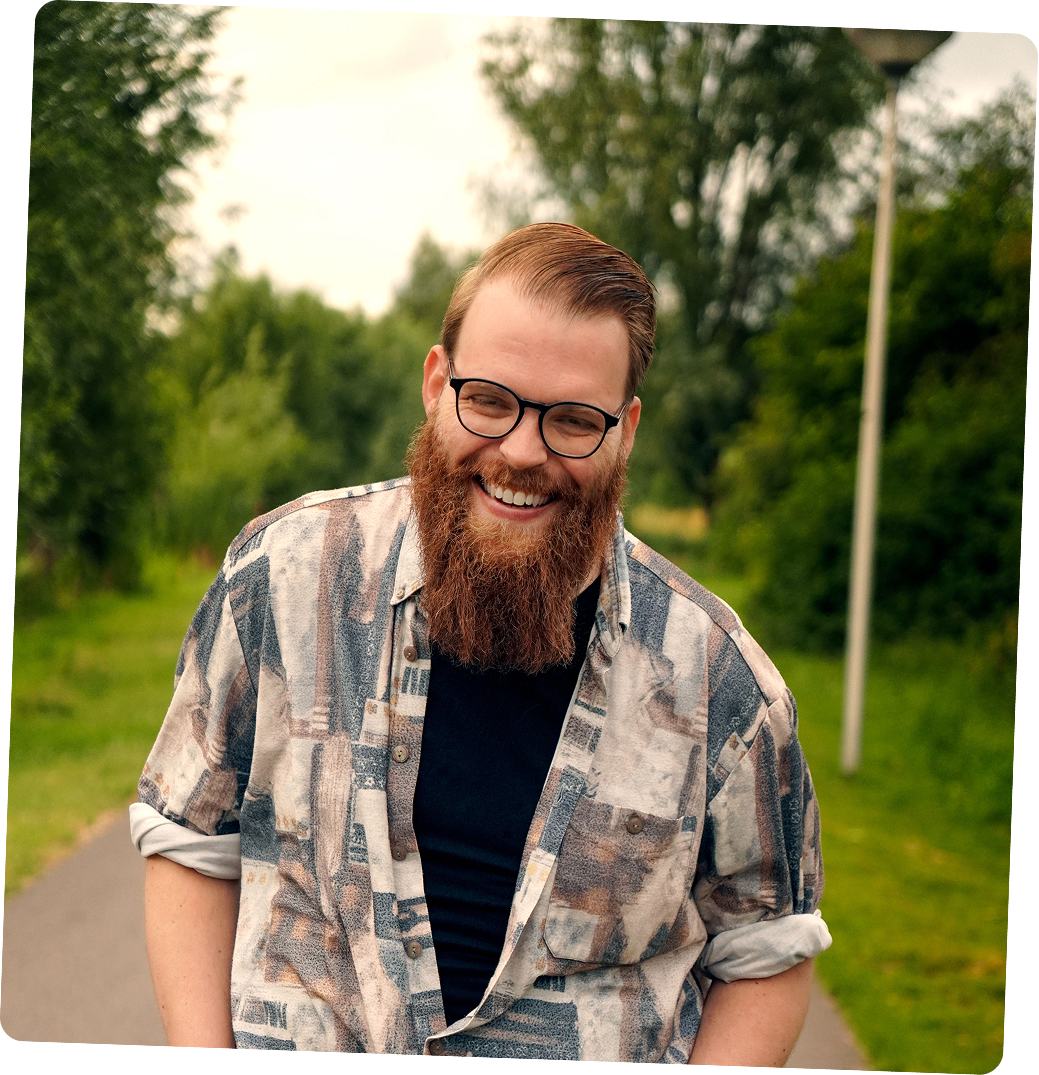
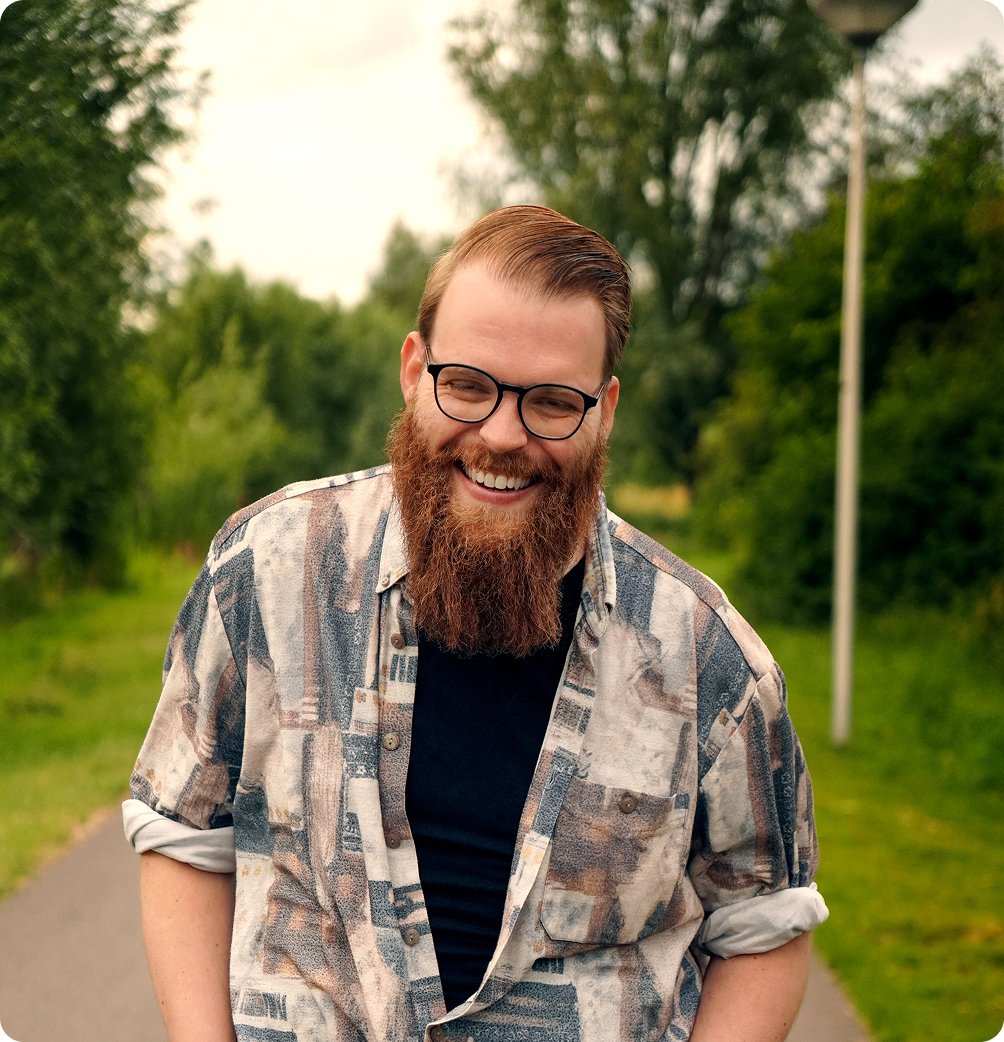
Another day, anotther small fix
be fixin'g yo

diff --git a/src/css/pages.css b/src/css/pages.css
@@ -176,16 +176,18 @@
 }
 
 /* --- Photo grid ---------------------------------------------- */
-/* Ratios are preserved per breakpoint via aspect-ratio, so the
-   grid never crops differently than the design intends.         */
+/* Figma treats each slot as a fixed-size frame with "clip
+   content" on: the photo is cropped to fill its slot, the slot
+   size never bends to fit the photo. Track sizes below are the
+   exact Figma numbers per breakpoint; object-fit:cover on the
+   img does the actual cropping.                                 */
 .photo-grid {
   display: grid;
-  grid-template-columns: repeat(3, 1fr);
   gap: 16px;
-  align-items: start;
+  overflow: hidden;
 }
 
-.photo-grid figure { margin: 0; }
+.photo-grid__item { margin: 0; border-radius: var(--radius-12); overflow: hidden; }
 
 .photo-grid img {
   width: 100%;
@@ -194,23 +196,44 @@
   border-radius: var(--radius-12);
 }
 
-.photo-grid__item { border-radius: var(--radius-12); overflow: hidden; }
+/* Desktop: 3 columns × 2 rows. Trouwfoto spans both rows. */
+.photo-grid {
+  grid-template-columns: repeat(3, 1fr);
+  grid-template-rows: repeat(2, 312px);
+  grid-template-areas: "a b c" "d b e";
+  height: 640px;
+}
+.photo-grid__item:nth-child(1) { grid-area: a; } /* Miauwmiauws */
+.photo-grid__item:nth-child(2) { grid-area: b; } /* Trouwfoto   */
+.photo-grid__item:nth-child(3) { grid-area: c; } /* Moose       */
+.photo-grid__item:nth-child(4) { grid-area: d; } /* Meme        */
+.photo-grid__item:nth-child(5) { grid-area: e; } /* Bass        */
 
-/* Desktop: middle image is a tall portrait spanning two rows. */
-.photo-grid__item--tall { grid-row: span 2; aspect-ratio: 348 / 653; }
-.photo-grid__item--square { aspect-ratio: 348 / 312; }
-.photo-grid__item--bass { aspect-ratio: 348 / 348; }
-
+/* Tablet: 2 columns × 3 rows. Trouwfoto spans the top two rows. */
 @media (max-width: 1023px) {
-  .photo-grid { grid-template-columns: repeat(2, 1fr); }
-  .photo-grid__item--tall { aspect-ratio: 344 / 640; }
+  .photo-grid {
+    grid-template-columns: repeat(2, 1fr);
+    grid-template-rows: repeat(3, 312px);
+    grid-template-areas: "a b" "c b" "d e";
+    height: 968px;
+  }
 }
 
+/* Mobile: single column, each photo keeps its own ratio —
+   no clipping needed since there's no row to align against. */
 @media (max-width: 767px) {
-  .photo-grid { grid-template-columns: 1fr; }
-  .photo-grid__item--tall { grid-row: auto; aspect-ratio: 329 / 640; }
-  .photo-grid__item--square { aspect-ratio: 329 / 312; }
-  .photo-grid__item--bass { aspect-ratio: 1 / 1; }
+  .photo-grid {
+    grid-template-columns: 1fr;
+    grid-template-rows: none;
+    grid-template-areas: none;
+    height: auto;
+    overflow: visible;
+  }
+  .photo-grid__item:nth-child(1) { grid-area: auto; aspect-ratio: 329 / 312; }
+  .photo-grid__item:nth-child(2) { grid-area: auto; aspect-ratio: 329 / 640; }
+  .photo-grid__item:nth-child(3) { grid-area: auto; aspect-ratio: 329 / 312; }
+  .photo-grid__item:nth-child(4) { grid-area: auto; aspect-ratio: 329 / 312; }
+  .photo-grid__item:nth-child(5) { grid-area: auto; aspect-ratio: 1 / 1; }
 }
 
 /* --- Closing block ------------------------------------------- */
